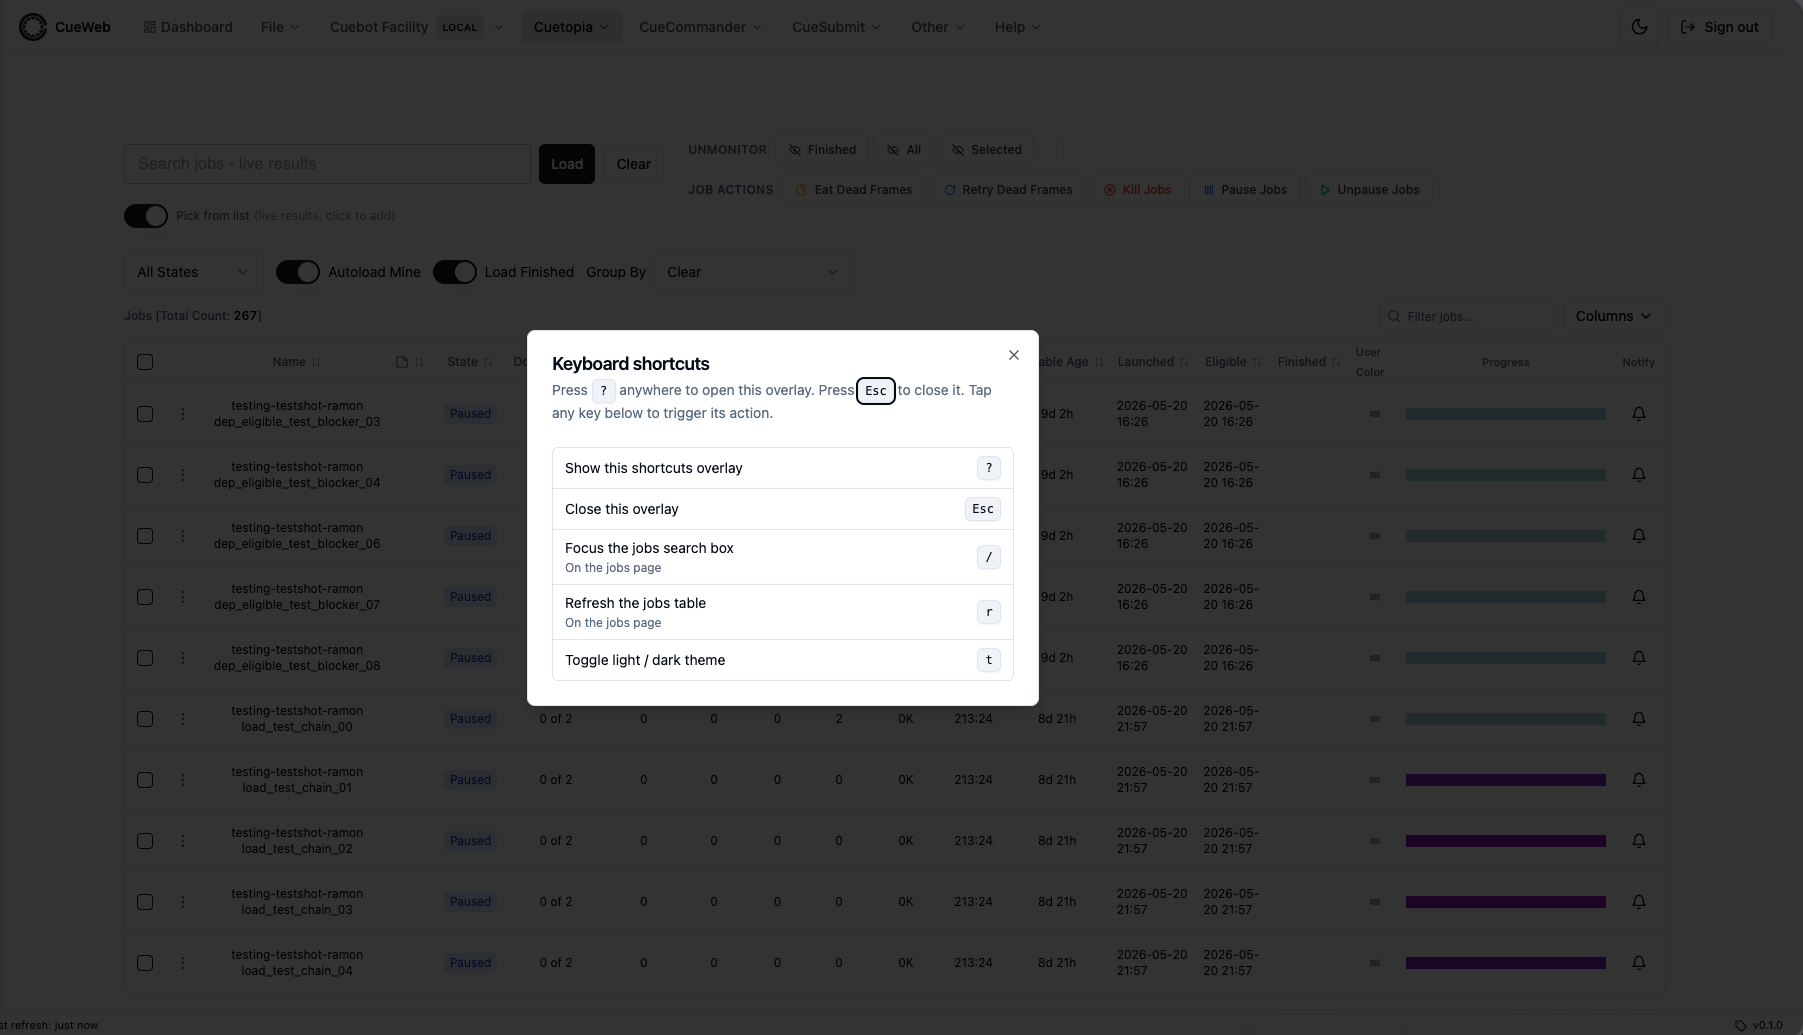
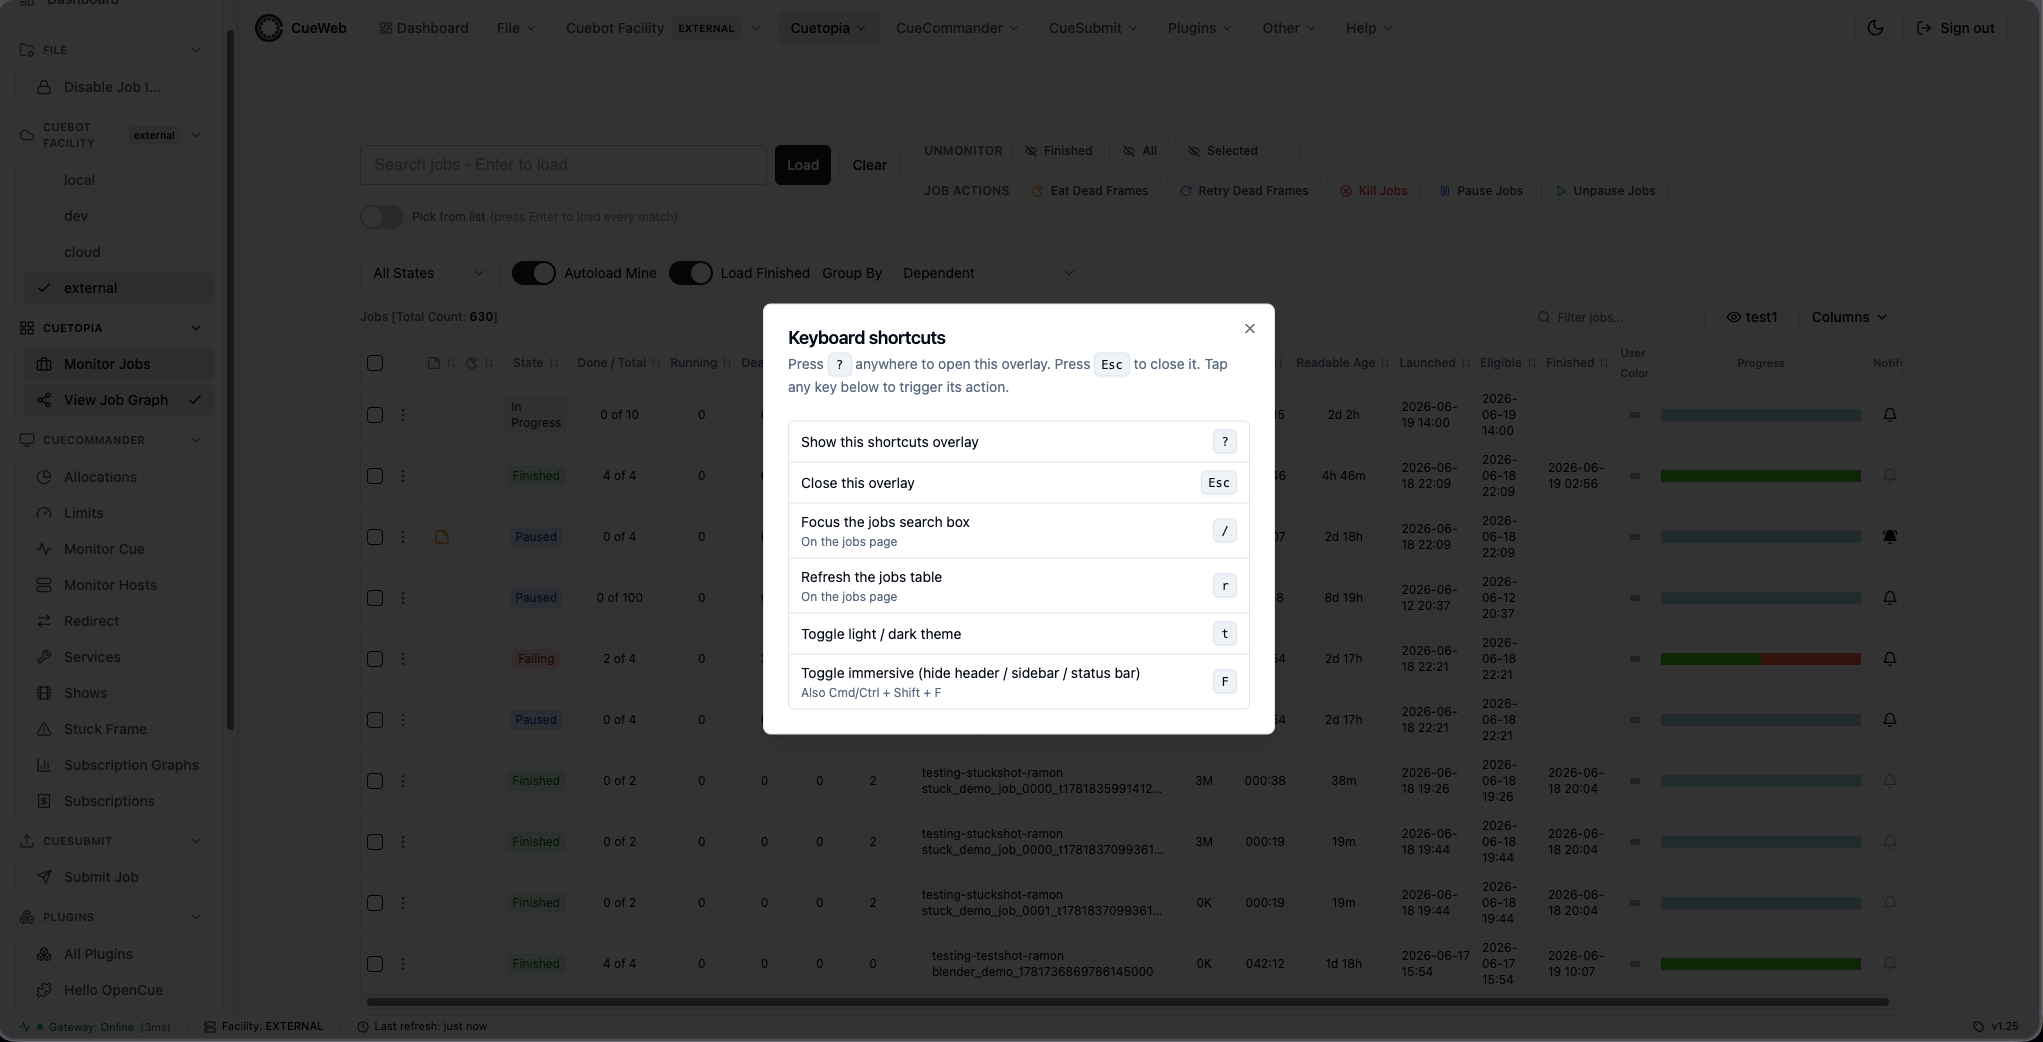
[cueweb] Document workspace layout; expand split-view page picker
Code:
- split-view: the per-pane page picker now offers Monitor Jobs, every CueCommander page (Allocations, Limits, Monitor Cue, Monitor Hosts, Redirect, Services, Shows, Stuck Frame, Subscription Graphs, Subscriptions), CueSubmit, the plugins index, and the Cue Progress Bar plugin, in sidebar order.

Docs (view presets, immersive mode, split view) across all guides:
- quick-starts: a "Customize your workspace" step.
- concepts: "Workspace layout (web-native windows)".
- getting-started: a "Workspace layout" note (client-side state; allow same-origin framing for split view behind a proxy).
- user-guide: a full "Workspace layout" section with view-preset, immersive, and split-view screenshots, plus the picker list.
- other-guides: a feature-list entry
- reference: corrected the split-view picker list.
- tutorials: a "Customizing your workspace" walkthrough with screenshots.
- developer-guide: a "Workspace layout" implementation section.

diff --git a/cueweb/components/ui/split-view.tsx b/cueweb/components/ui/split-view.tsx
@@ -66,11 +66,20 @@ import { cn } from "@/lib/utils";
  *  back into the URL. */
 const SPLIT_TARGETS: { label: string; href: string }[] = [
   { label: "Monitor Jobs", href: "/" },
-  { label: "Monitor Hosts", href: "/hosts" },
+  // CueCommander pages, in sidebar order.
   { label: "Allocations", href: "/allocations" },
+  { label: "Limits", href: "/limits" },
+  { label: "Monitor Cue", href: "/monitor-cue" },
+  { label: "Monitor Hosts", href: "/hosts" },
+  { label: "Redirect", href: "/redirect" },
+  { label: "Services", href: "/services" },
   { label: "Shows", href: "/shows" },
-  { label: "Dashboard", href: "/dashboard" },
+  { label: "Stuck Frame", href: "/stuck-frames" },
+  { label: "Subscription Graphs", href: "/subscription-graphs" },
+  { label: "Subscriptions", href: "/subscriptions" },
   { label: "CueSubmit", href: "/cuesubmit" },
+  { label: "All plugins", href: "/plugins" },
+  { label: "CueProgress bar plugin", href: "/plugins/cue-progress-bar" },
 ];
 
 /** Best-effort friendly label for a pane URL (matches the longest known

diff --git a/docs/_docs/developer-guide/cueweb-development.md b/docs/_docs/developer-guide/cueweb-development.md
@@ -1527,6 +1527,66 @@ the full contract reference.
 
 ---
 
+## Workspace layout (view presets, immersive, split view)
+
+Three web-native replacements for CueGUI window/layout affordances, all built on
+the existing `localStorage` + cross-tab `storage`-event conventions (the same
+pattern as `use_disable_job_interaction.ts`). Files involved:
+
+```text
+components/ui/views-menu.tsx          # the Views dropdown + captureView/applyView/loadViews/saveViews helpers
+app/utils/use_immersive_mode.ts       # useImmersiveMode() hook
+components/ui/app-shell.tsx           # owns header/sidebar/status-bar chrome; drops it when immersive or inside a split pane
+app/split/page.tsx                    # the /split route (Suspense around useSearchParams)
+components/ui/split-view.tsx          # SplitView component
+app/utils/split_view_utils.ts         # pure helpers (sanitizePanePath, ratio clamp, ...)
+```
+
+### Saveable view presets
+
+`ViewsMenu` is **table-agnostic**: it reads and writes everything through the
+TanStack `table` instance (`setColumnOrder` / `setColumnVisibility` /
+`setSorting` / `setColumnFilters` / `setPageSize`), which both the Jobs
+`data-table.tsx` and the shared `SimpleDataTable` expose, so each table's
+existing per-key persistence keeps working unchanged. `SimpleDataTable` renders
+the menu when given a `viewsPageKey` prop. A **View** captures
+`{ name, columns: { id, visible, order }[], sort, filters, pageSize }` and
+persists per page under `localStorage["cueweb.views.<page>"]`, with the active
+preset name under `cueweb.views.<page>.active`; both broadcast via the `storage`
+event for cross-tab sync. The reserved name `Default` and duplicates are
+rejected. Pure helpers are unit-tested.
+
+### Immersive (full-screen) mode
+
+`useImmersiveMode()` (`{ immersive, setImmersive, toggle }`) mirrors
+`use_disable_job_interaction.ts` - persisted to
+`localStorage["cueweb.layout.immersive"]`, SSR-safe hydration after mount,
+cross-tab sync via the `storage` event plus an internal
+`cueweb:immersive-changed` CustomEvent. `AppShell` (mounted in `app/layout.tsx`)
+owns the chrome and unmounts it when immersive; the keyboard handler, attributes
+panel, mobile nav and toast host stay at the layout root so `F` keeps working.
+Toggled via `F` / `Cmd/Ctrl+Shift+F`, the **Other** menu, the menu registry
+(Help search), and a floating **Exit immersive** button.
+
+### Multi-pane split view
+
+`/split?left=/jobs&right=/hosts/server-01` keeps both pane targets in the query
+string, so the workspace is URL-addressable and reload-safe. Each pane is a
+**same-origin `<iframe>`** so it keeps its own Next.js router context (rendering
+the page components directly would force both panes to share one router,
+breaking dynamic routes and searchParam-driven pages). `AppShell` detects
+`window.self !== window.top` and hides its chrome inside panes (composes with
+immersive). In-pane navigation fires the iframe `load` handler, which
+`router.replace`s the pane's `pathname+search` back into `left`/`right`; the
+`src` is only re-driven when it differs from what the iframe already shows, so
+there's no reload loop. The divider resize clamps to 15-85% and persists to
+`localStorage["cueweb.split.ratio"]`. `sanitizePanePath` accepts only internal
+absolute paths (rejecting external/protocol-relative URLs and `/split` itself,
+to prevent recursive embedding). Entry points: **Other ▸ Split view** and the
+menu registry (`other.split-view`).
+
+---
+
 ## Development Workflow
 
 ### Running in Development Mode

diff --git a/docs/_docs/user-guides/cueweb-user-guide.md b/docs/_docs/user-guides/cueweb-user-guide.md
@@ -1536,6 +1536,62 @@ A plugin can expose its own settings. Open them from the plugin (the **Open plug
 
 ---
 
+## Workspace layout
+
+Three web-native conveniences let you shape the workspace to the task at hand. All three are personal and saved in your browser, and they sync across your open tabs.
+
+### Saveable view presets
+
+Every major table (Jobs, Hosts, Allocations, Shows, Layers, Frames) has a **Views** dropdown next to its **Columns** dropdown - the web equivalent of CueGUI's *Save Window Settings*. A "view" captures the table's column order and visibility, sort, filters, and page size, so you can set the table up once and recall that exact layout later.
+
+![Views dropdown on a table](/assets/images/cueweb/cueweb_saveable_view_presets.png)
+
+**Save a view.** Arrange the table how you want it - for example, reorder or hide columns - then open **Views &rarr; Save as…** and give the preset a name.
+
+![Changing column positions before saving a view](/assets/images/cueweb/cueweb_saveable_view_presets_change_columns_positions.png)
+
+![Save the current layout as a named view](/assets/images/cueweb/cueweb_saveable_view_presets_save_view.png)
+
+**Apply a view.** Click a preset to apply it; the active one is checked. **Update "&lt;name&gt;"** overwrites the active preset with the current layout.
+
+![Applying a saved view](/assets/images/cueweb/cueweb_saveable_view_presets_apply_view_changes.png)
+
+**Rename or delete a view.** Each preset has inline **Rename** (pencil) and **Delete** (trash) buttons.
+
+![Rename a view](/assets/images/cueweb/cueweb_saveable_view_presets_rename_view.png)
+
+![Delete a view](/assets/images/cueweb/cueweb_saveable_view_presets_delete_view.png)
+
+**Restore the default.** The **Default** entry (pinned at the top) restores the table's documented defaults; it can't be renamed or deleted.
+
+![Restore the default view](/assets/images/cueweb/cueweb_saveable_view_presets_restore_default_view.png)
+
+Presets are saved per page in your browser and update across tabs as you add, rename, or delete them.
+
+### Immersive (full-screen) mode
+
+Immersive mode hides the header, sidebar, and status bar so the active table gets the entire viewport - handy on a wall display or when you want maximum table real estate. Toggle it from **Other &rarr; Immersive (full-screen)**, with the **`F`** key (or **Cmd/Ctrl+Shift+F**), or via Help-menu search.
+
+![Immersive (full-screen) in the Other menu](/assets/images/cueweb/cueweb_full_screen_menu.png)
+
+While immersed, a floating **Exit immersive** button stays on screen so you're never trapped once the chrome is hidden. Your choice persists per browser and syncs across tabs.
+
+![CueWeb in immersive (full-screen) mode](/assets/images/cueweb/cueweb_full_screen_activated.png)
+
+### Split view (two pages side-by-side)
+
+Split view opens **two CueWeb pages in one tab**, side by side in resizable panes - the web equivalent of CueGUI's *Add new window*. Open it from **Other &rarr; Split view** (Jobs on the left, Hosts on the right by default).
+
+![Split view in the Other menu](/assets/images/cueweb/cueweb_split_view_menu.png)
+
+- Each pane has its **own page picker** offering Monitor Jobs, all the CueCommander pages (Allocations, Limits, Monitor Cue, Monitor Hosts, Redirect, Services, Shows, Stuck Frame, Subscription Graphs, Subscriptions), CueSubmit, the Plugins index, and the Cue Progress Bar plugin - so you can put any two pages together (e.g. Monitor Jobs next to Monitor Hosts).
+- **Drag the divider** (or nudge it with the arrow keys; Home/End jump) to rebalance the panes; the ratio is remembered. **Swap** flips the panes and **Reset 50/50** re-centers.
+- The workspace lives in the URL (`/split?left=/jobs&right=/hosts/<name>`), so it's **bookmarkable and reload-safe** - navigating inside a pane updates that URL, and reloading restores both panes. On phones the panes stack vertically.
+
+![CueWeb split view](/assets/images/cueweb/cueweb_split_view_activated.png)
+
+---
+
 ## Keyboard Shortcuts
 
 CueWeb registers a small set of global keyboard shortcuts. Single-letter keys are ignored while typing into a text field, and modifier-key combos (Ctrl / Cmd / Alt) are passed through to the browser, so they will not collide with native shortcuts such as Ctrl+R.
@@ -1547,6 +1603,9 @@ CueWeb registers a small set of global keyboard shortcuts. Single-letter keys ar
 | `/` | Focus the jobs search box | On the jobs page |
 | `r` | Refresh the jobs table | On the jobs page |
 | `t` | Toggle the light / dark theme | Anywhere |
+| `F` (or `Cmd/Ctrl+Shift+F`) | Toggle immersive mode (hide header / sidebar / status bar) | Anywhere |
+
+The single-letter keys are ignored while typing into a text field; the immersive chord `Cmd/Ctrl+Shift+F` is the exception and works even from inside a search box.
 
 ### Opening shortcuts from the menu
 

diff --git a/docs/_docs/tutorials/cueweb-tutorial.md b/docs/_docs/tutorials/cueweb-tutorial.md
@@ -731,6 +731,48 @@ CueWeb can be extended with **plugins** - add-on panels that live on their own p
 
 ---
 
+## Customizing your workspace
+
+CueWeb gives you three ways to tailor the workspace - and all three remember your choice in the browser. Let's try each.
+
+### Save and reuse a view preset
+
+1. Go to **Monitor Jobs**. Set the table up the way you like - reorder or hide a few columns, sort by a column, apply a filter, change the page size.
+
+   ![Changing column positions](/assets/images/cueweb/cueweb_saveable_view_presets_change_columns_positions.png)
+
+2. Open the **Views** dropdown (next to **Columns**) and choose **Save as…**. Give the preset a name (for example `Triage`) and save.
+
+   ![Save the layout as a named view](/assets/images/cueweb/cueweb_saveable_view_presets_save_view.png)
+
+3. Change the table around, then reopen **Views** and click **Triage** - the saved layout snaps back. The **Default** entry always restores the original layout.
+
+   ![Applying a saved view](/assets/images/cueweb/cueweb_saveable_view_presets_apply_view_changes.png)
+
+4. Use the inline **Rename** / **Delete** buttons to manage presets, or **Update "Triage"** to overwrite it with the current layout. Presets are per page and follow you across tabs.
+
+   ![Rename a view](/assets/images/cueweb/cueweb_saveable_view_presets_rename_view.png)
+
+### Go full-screen (immersive mode)
+
+1. Press **`F`** (or open **Other &rarr; Immersive (full-screen)**). The header, sidebar, and status bar disappear, and the table takes the whole screen.
+
+   ![CueWeb in immersive (full-screen) mode](/assets/images/cueweb/cueweb_full_screen_activated.png)
+
+2. Press **`F`** again, or click the floating **Exit immersive** button, to bring the chrome back. The mode is remembered, so a new tab opens immersed too until you turn it off.
+
+### Work in a split view
+
+1. Open **Other &rarr; Split view**. CueWeb shows two pages side-by-side - Jobs on the left, Hosts on the right by default.
+
+   ![CueWeb split view](/assets/images/cueweb/cueweb_split_view_activated.png)
+
+2. Use each pane's **page picker** to choose what it shows (for example, put Monitor Jobs on the left and a specific host's detail page on the right).
+3. **Drag the divider** to rebalance the panes (or nudge it with the arrow keys); use **Swap** to flip them and **Reset 50/50** to re-center.
+4. Notice the address bar: `/split?left=…&right=…`. The whole workspace is in the URL, so you can bookmark or share it, and a reload restores both panes exactly.
+
+---
+
 ## Troubleshooting Common Issues
 
 ### Frame Failures

diff --git a/docs/_docs/quick-starts/quick-start-cueweb.md b/docs/_docs/quick-starts/quick-start-cueweb.md
@@ -325,6 +325,21 @@ CueWeb ships a small **plugin system** with two sample add-ons. Open the **Plugi
 - Each plugin has a **checkbox** that controls whether it appears in the **Plugins** menu; your choice is saved in your browser. Open a plugin to use it, and use its **Open plugin settings** control to tweak its options (also saved per browser).
 - **Cue Progress Bar** (on by default) draws a live frame-state bar for a job with pause / unpause / kill / retry-dead controls; **Hello OpenCue** (off by default) is a minimal example. Developers can add their own under `cueweb/app/plugins/<name>/`.
 
+### Customize your workspace
+
+Three quick ways to shape the workspace (all saved in your browser):
+
+- **Save a view preset:** set up a table's columns, sort, filters, and page size, then use the **Views** dropdown (next to **Columns**) &rarr; **Save as…** to recall that exact layout later. The built-in **Default** restores the original layout.
+
+  ![Views dropdown with saved presets](/assets/images/cueweb/cueweb_saveable_view_presets.png)
+- **Go full-screen:** press **`F`** (or use **Other &rarr; Immersive (full-screen)**) to hide the header, sidebar, and status bar so a table fills the screen. A floating **Exit immersive** button brings the chrome back.
+
+  ![CueWeb in immersive (full-screen) mode](/assets/images/cueweb/cueweb_full_screen_activated.png)
+
+- **Split the view:** open **Other &rarr; Split view** to see two pages side-by-side in resizable panes (e.g. Monitor Jobs next to a host). The layout lives in the URL (`/split?left=…&right=…`), so it's bookmarkable and reload-safe.
+
+  ![CueWeb split view](/assets/images/cueweb/cueweb_split_view_activated.png)
+
 
 ---
 

diff --git a/docs/_docs/getting-started/deploying-cueweb.md b/docs/_docs/getting-started/deploying-cueweb.md
@@ -600,6 +600,19 @@ What a user does at **runtime** - which plugins show in the Plugins menu and eac
 
 ---
 
+## Workspace layout (presets, immersive, split view)
+
+The workspace-layout features - saveable **view presets**, **immersive (full-screen) mode**, and the **split view** - need **no server-side configuration**. Like the rest of CueWeb's personalization, all state is per-user, per-browser `localStorage` (`cueweb.views.<page>`, `cueweb.layout.immersive`, `cueweb.split.ratio`); nothing is persisted on the server and nothing is shared between users.
+
+One deployment detail to be aware of: **split view renders each pane as a same-origin `<iframe>`** of another CueWeb page (`/split?left=…&right=…`). For this to work behind a reverse proxy, the proxy and the app must allow CueWeb to frame **itself**:
+
+- Don't send `X-Frame-Options: DENY`. If you set it, use `SAMEORIGIN`.
+- If you use a Content-Security-Policy, allow same-origin framing, e.g. `frame-ancestors 'self'`.
+
+Because the panes are always same-origin internal paths (`sanitizePanePath` rejects external and protocol-relative URLs), no cross-origin framing is involved.
+
+---
+
 ## Reverse Proxy Configuration
 
 ### Nginx Configuration

diff --git a/docs/_docs/concepts/cueweb-rest-gateway.md b/docs/_docs/concepts/cueweb-rest-gateway.md
@@ -184,6 +184,18 @@ CueWeb is **extensible** through a small plugin system - the browser counterpart
 
 ---
 
+## Workspace layout (web-native windows)
+
+CueGUI is a desktop app, so it shapes the workspace with *windows*: saving window settings, toggling full-screen, and opening additional windows. CueWeb is a single browser tab, so it offers the same affordances in web-native form, and treats them all the same way - as **personal, client-side preferences** (browser `localStorage`, synced across tabs via the `storage` event), never server state:
+
+- **View presets** replace CueGUI's *Save Window Settings*: a named snapshot of a table's column order/visibility, sort, filters, and page size. They're built on top of each table's existing per-column persistence and operate purely through the table component's own API, which is why they work uniformly across every table without per-table code.
+- **Immersive (full-screen) mode** replaces *Toggle Full-Screen*: the app shell drops the header, sidebar, and status bar so the active view fills the viewport.
+- **Split view** replaces *Add new window*: two pages share one tab as side-by-side panes. Each pane is a same-origin `<iframe>` so it keeps its **own** router context (URL, dynamic params), and the two pane targets live in the page's query string - so a split workspace is itself just a URL, making it bookmarkable, shareable, and reload-safe.
+
+**Why this design:** modeling these as URL- and `localStorage`-addressable state (rather than server-side window managers) keeps them stateless on the backend, shareable as links, and consistent with how the rest of CueWeb persists per-user preferences - enabling any of them never touches Cuebot.
+
+---
+
 ## Deployment Patterns
 
 ### Standalone Deployment

diff --git a/docs/_docs/other-guides/cueweb.md b/docs/_docs/other-guides/cueweb.md
@@ -115,7 +115,7 @@ CueWeb replicates the core functionality of [CueGUI](https://www.opencue.io/docs
    - **Subscribe to Job** (right-click menu on a job row): opens a themed dialog mirroring CueGUI's `SubscribeToJobDialog`. The address you save is registered on Cuebot via the `AddSubscriber` RPC, so Cuebot **emails** the subscriber when the job finishes. Use this when you want notifications to survive closing the browser, going to a different machine, or to alert a team alias instead of yourself. Independent of the Notify bell; you can use one, the other, or both.
 
 22. **Keyboard shortcuts overlay (+ menu access + per-shortcut toast):**
-   - Press `?` anywhere to open the cheat-sheet overlay; press `Esc` to close it. Single-letter keys (`/`, `r`, `t`) are ignored while typing into editable elements so they don't collide with text input, and modifier-key combos (Ctrl / Cmd / Alt) are passed through to the browser.
+   - Press `?` anywhere to open the cheat-sheet overlay; press `Esc` to close it. The overlay lists `/` (focus jobs search), `r` (refresh table), `t` (toggle theme), and `F` / `Cmd/Ctrl+Shift+F` (toggle immersive - hide header / sidebar / status bar). Single-letter keys are ignored while typing into editable elements, and modifier-key combos (Ctrl / Cmd / Alt) are passed through to the browser - except the immersive chord `Cmd/Ctrl+Shift+F`, which is captured even from inside a search field.
    - The same overlay is reachable from **Other ▸ Show Shortcuts** in both the header and the sidebar.
    - **Notify on Shortcut** (also under Other; default ON) controls whether a toast naming the action fires every time a shortcut triggers (e.g. `Shortcut: r → Refresh table`). Flipping the toggle takes effect on the very next keypress.
 
@@ -217,6 +217,12 @@ CueWeb replicates the core functionality of [CueGUI](https://www.opencue.io/docs
    - **Plugins page** (`/plugins`): a searchable, paginated index of registered plugins. Checkboxes choose which plugins appear in the **Plugins** menu (header + sidebar, to the right of CueSubmit); the selection persists per browser (`cueweb.plugin-menu.enabled`), syncs across tabs, and seeds from each manifest's `defaultEnabled`.
    - **Per-plugin settings**: plugins register settings (`key`, `label`, `kind`, `default`) that persist to `localStorage` (`cueweb.plugin-settings.<key>`); a shared, plugin-scoped settings dialog (mounted once in the layout, opened via an event) edits them.
    - **Bundled samples**: **Hello OpenCue** (minimal contract example with greeting/shout/emoji settings, off by default) and **Cue Progress Bar** (a port of CueGUI's `cueprogbar` - a live color-coded frame-state bar with done/total/running labels and pause / unpause / kill / retry-dead controls, on by default).
+
+39. **Workspace layout (view presets, immersive, split view):**
+   - Three web-native replacements for CueGUI window/layout affordances, all stored client-side (`localStorage`) and synced across tabs.
+   - **Saveable view presets** (CueGUI *Save Window Settings*): a **Views** dropdown on every major table (Jobs, Hosts, Allocations, Shows, Layers, Frames) to **Save as… / Apply / Rename / Delete** named presets capturing column order/visibility, sort, filters, and page size. Persists per page under `cueweb.views.<page>` (active under `cueweb.views.<page>.active`); a built-in **Default** restores documented defaults. Table-agnostic - it operates on the TanStack table instance.
+   - **Immersive (full-screen) mode** (CueGUI *Toggle Full-Screen*): hides the header, sidebar, and status bar so the active table fills the viewport. Toggled with **`F`** / **Cmd/Ctrl+Shift+F**, the **Other** menu, or a floating **Exit immersive** button; persists under `cueweb.layout.immersive`.
+   - **Multi-pane split view** (CueGUI *Add new window*): the `/split?left=…&right=…` route opens two pages side-by-side in resizable, same-origin iframe panes, each with its own URL so the whole workspace is bookmarkable and reload-safe; drag/keyboard divider resize (ratio under `cueweb.split.ratio`), per-pane page picker, Swap, and Reset 50/50. Opened from **Other &rarr; Split view**.
 
 
 ## CueWeb's user interface

diff --git a/docs/_docs/reference/cueweb.md b/docs/_docs/reference/cueweb.md
@@ -598,7 +598,7 @@ Web-native equivalent of CueGUI's Window ▸ "Add new window" entries (`cuegui/c
 | **Chrome** | Hidden inside panes: `AppShell` detects `window.self !== window.top` and drops the header/sidebar/status bar so each pane shows only page content (composes with immersive mode). |
 | **URL sync** | Navigating inside a pane (e.g. clicking a host row) fires the iframe `load` handler, which reads the pane's current `pathname+search` and `router.replace`s it into `left`/`right`. The iframe `src` is only re-driven when the desired URL differs from what it already shows, so in-pane navigation isn't clobbered and there's no reload loop. |
 | **Resize** | Drag the divider (pointer events → mouse/touch/pen) or use the keyboard (← / → nudge, Home/End jump). Ratio is clamped to 15–85% and persisted to `localStorage["cueweb.split.ratio"]`. Iframes get `pointer-events:none` while dragging so move events keep reaching the window. |
-| **Controls** | Per-pane page picker (top-level routes), **Swap** panes, **Reset 50/50**, and an open-in-new-tab link per pane. On phones (`max-width: 767px`) the panes stack vertically without a draggable divider. |
+| **Controls** | Per-pane page picker - Monitor Jobs, the CueCommander pages (Allocations, Limits, Monitor Cue, Monitor Hosts, Redirect, Services, Shows, Stuck Frame, Subscription Graphs, Subscriptions), CueSubmit, the plugins index, and the Cue Progress Bar plugin - plus **Swap** panes, **Reset 50/50**, and an open-in-new-tab link per pane. On phones (`max-width: 767px`) the panes stack vertically without a draggable divider. |
 | **Safety** | `sanitizePanePath` only accepts internal absolute paths and rejects external/protocol-relative URLs and the `/split` route itself (no recursive embedding). |
 | **Entry points** | **Other ▸ Split view** in the header (default: Jobs left, Hosts right) and the Help-menu search via the menu registry (`other.split-view`). |
 